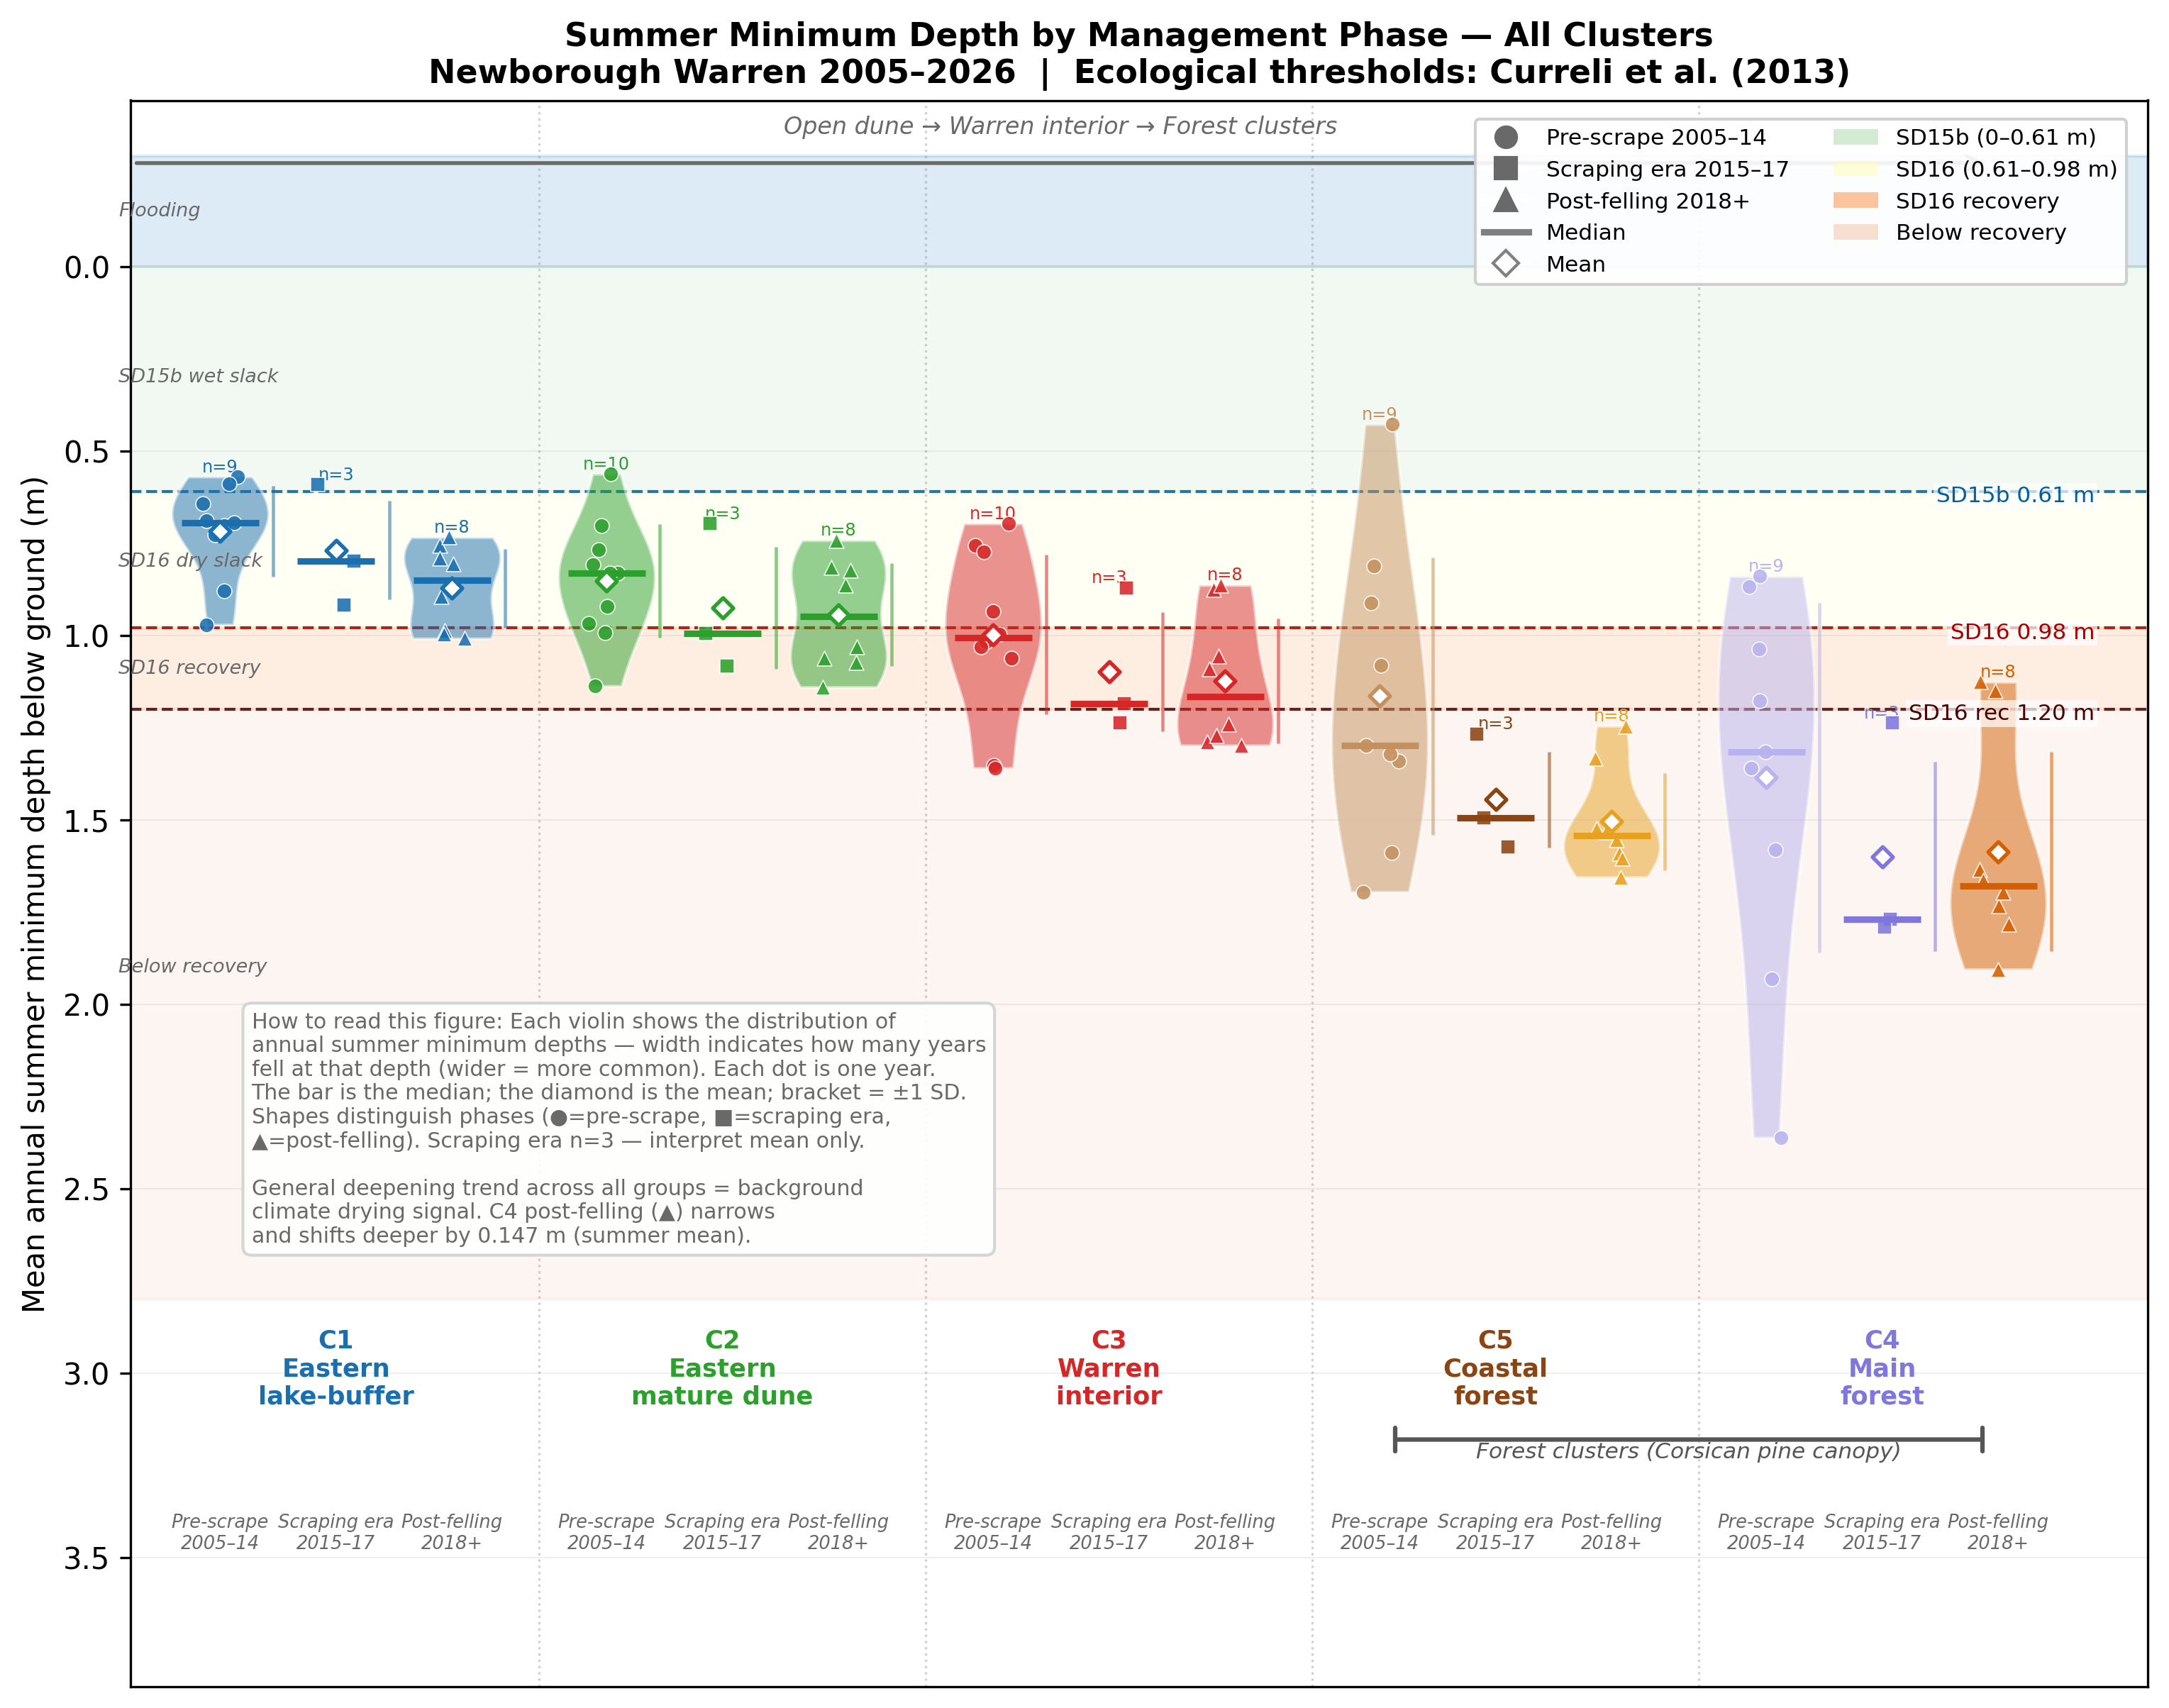
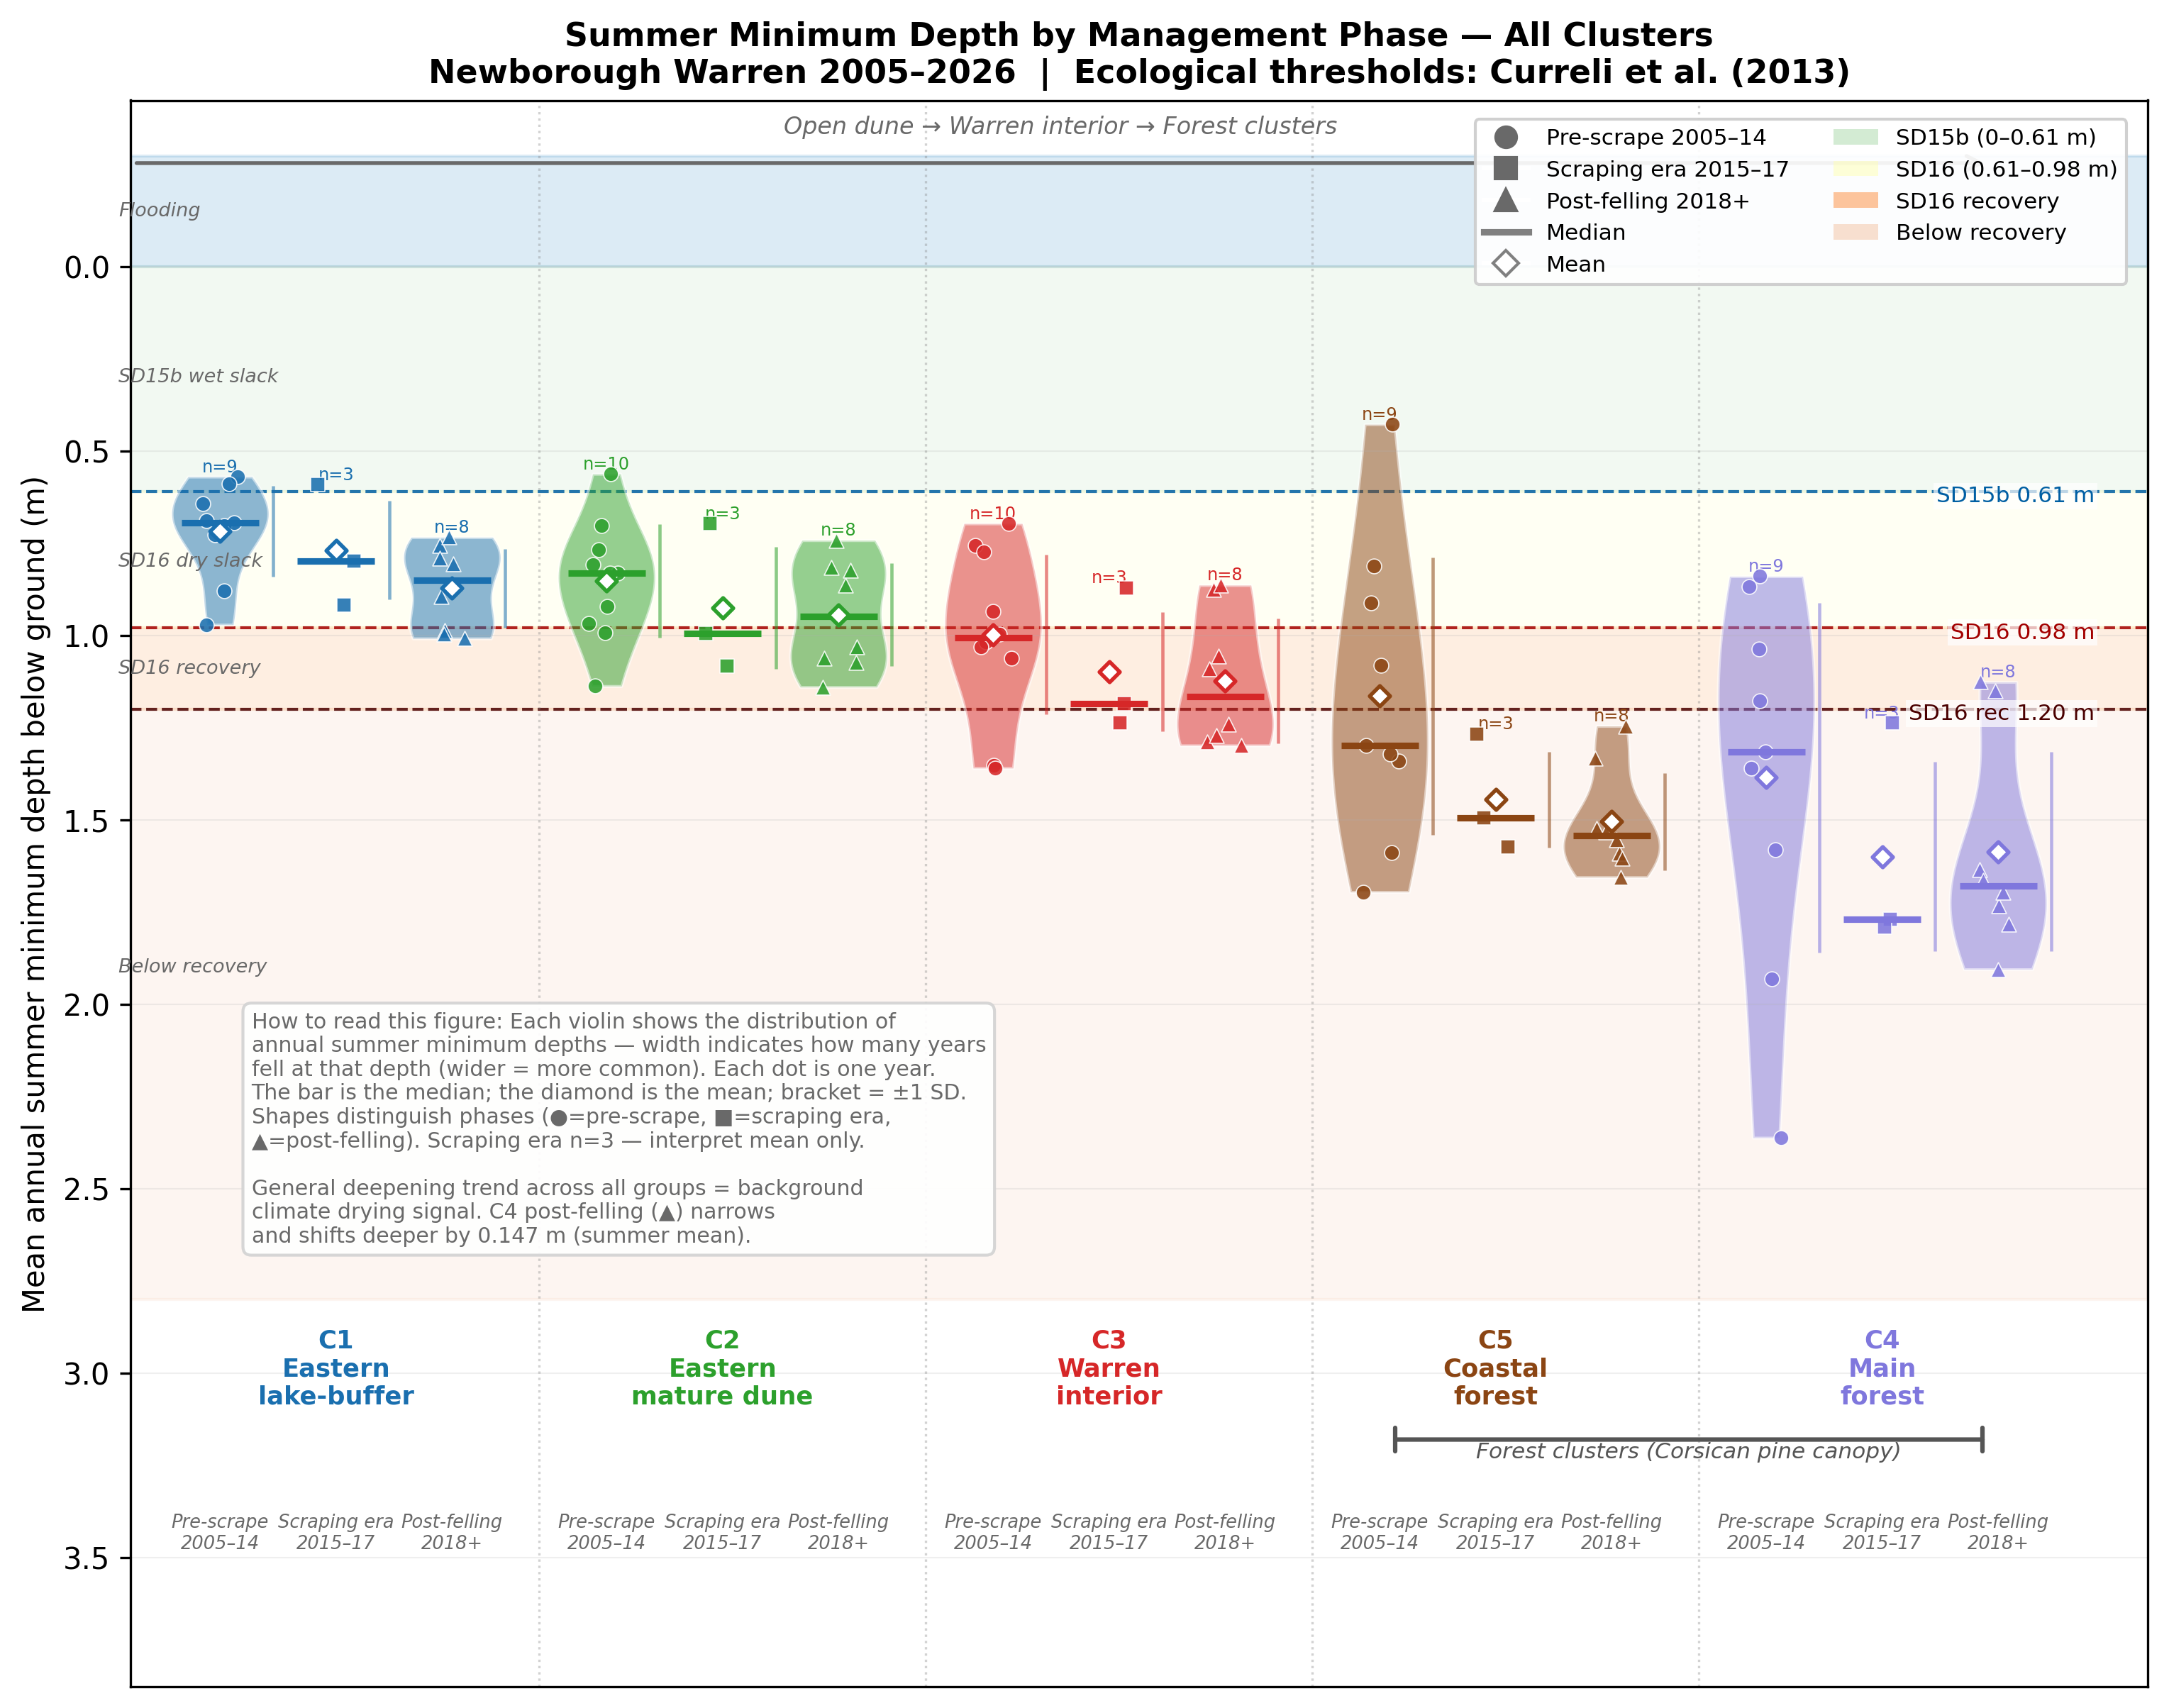
Add files via upload

Changed region(s): [[0.7145, 0.3115, 0.8388, 0.6852], [0.5903, 0.2492, 0.6835, 0.5295], [0.9009, 0.3738, 0.963, 0.5918]]

diff --git a/outputs/19_spatial_groundwater/scenario_viewer.html b/outputs/19_spatial_groundwater/scenario_viewer.html
@@ -207,8 +207,8 @@ footer a:hover{text-decoration:underline;}
   <div class="hr"></div>
   <div class="ch">Scraping</div>
   <label class="ckrow"><input type="checkbox" id="chkScrape" onchange="go()">
-    Scraping (nearby effect)</label>
-  <div class="sc-note" style="font-size:10px;color:var(--text-light);margin-top:2px;">Applies observed CEH36 scraping propagation effect (&beta;&#8323; &times;1.20, &Delta;&beta;&#8321; +0.41, &Delta;&beta;&#8322; +0.009, ground &minus;0.2&thinsp;m) to C3, C4, C5 wells. Independent of forest/climate scenarios.</div>
+    Simulate scraping event</label>
+  <div class="sc-note" style="font-size:10px;color:var(--text-light);margin-top:2px;">Simulates a 0.2&thinsp;m scraping event 200&thinsp;m NW of CEH36 (E&thinsp;241091, N&thinsp;363494). Uses the observed CEH36 BACI step (+131&thinsp;mm) as the source signal, attenuated by exponential distance decay (&lambda;&thinsp;=&thinsp;300&thinsp;m). Independent of forest/climate scenarios. Added to &Delta;h at each well.</div>
   <div class="sc-note">UKCP18 presets are central estimates (50th percentile) under RCP8.5 for Wales, with seasonally-structured perturbations applied to the paper's Winter (Nov&#8211;Mar) and Summer (May&#8211;Sep) climatologies. The equilibrium framework resolves seasonal Delta-h equilibria but not within-year dynamical trajectories.</div>
   <div class="hr"></div>
 
@@ -417,7 +417,9 @@ function go(){
   // Seasonal baselines -- always needed so annual can weight winter+summer
   var cldW=CLIMATE.winter,cldS=CLIMATE.summer;
   var scrapeOn=document.getElementById('chkScrape').checked;
-  var SCRAPE_DB1=0.41,SCRAPE_DB2=0.009,SCRAPE_B3_MULT=1.20,SCRAPE_DH=0.2;
+  // Distance-decay scraping model: source signal 131 mm at E241091 N363494,
+  // attenuated by exp(-d/lambda) with lambda=300 m.
+  var SCRAPE_E=241091,SCRAPE_N=363494,SCRAPE_SIGNAL=0.131,SCRAPE_LAMBDA=300;
   function dhOne(b1,b2,b3,P_base,PET_base,sP,sPET,h,cl){
     var isForest=(cl===4||cl===5);
     var sI_cur=cl===4?sl.sI_c4:cl===5?sl.sI_c5:0;
@@ -427,14 +429,7 @@ function go(){
     var Psc=P_base*sP,PETsc=PET_base*sPET;
     var Peff_sc=isForest?Psc*(1-sI_cur):Psc;
     var b2sc=isForest?b2*sB2_cur:b2;
-    var b1sc=b1,b3sc=b3,hsc=Math.abs(h);
-    if(scrapeOn&&(cl===3||cl===4||cl===5)){
-      b1sc=b1+SCRAPE_DB1;
-      b2sc=b2sc+SCRAPE_DB2;
-      b3sc=b3*SCRAPE_B3_MULT;
-      hsc=Math.abs(h)-SCRAPE_DH;
-    }
-    return (b1sc*Peff_sc-b2sc*PETsc-b3sc*hsc)-net0;
+    return (b1*Peff_sc-b2sc*PETsc-b3*Math.abs(h))-net0;
   }
   var well_dh={};
   for(var i=0;i<WELLS.length;i++){
@@ -452,6 +447,12 @@ function go(){
       var dhW=dhOne(b1,b2,b3,cldW.P,cldW.PET,sl.sP_w,sl.sPET_w,h,w.cl);
       var dhS=dhOne(b1,b2,b3,cldS.P,cldS.PET,sl.sP_s,sl.sPET_s,h,w.cl);
       well_dh[w.n]=0.5*(dhW+dhS);
+    }
+    // Add distance-decay scraping effect if enabled
+    if(scrapeOn&&well_dh[w.n]!=null){
+      var dx=w.E-SCRAPE_E,dy=w.N-SCRAPE_N;
+      var dist=Math.sqrt(dx*dx+dy*dy);
+      well_dh[w.n]+=SCRAPE_SIGNAL*Math.exp(-dist/SCRAPE_LAMBDA);
     }
   }
   var dh={},sh={},cld=CLIMATE[sea];